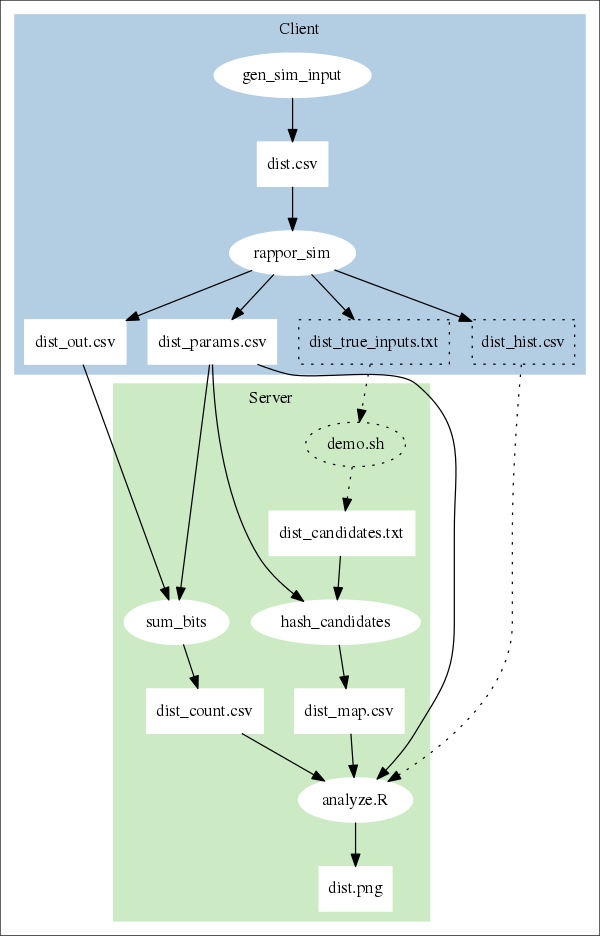
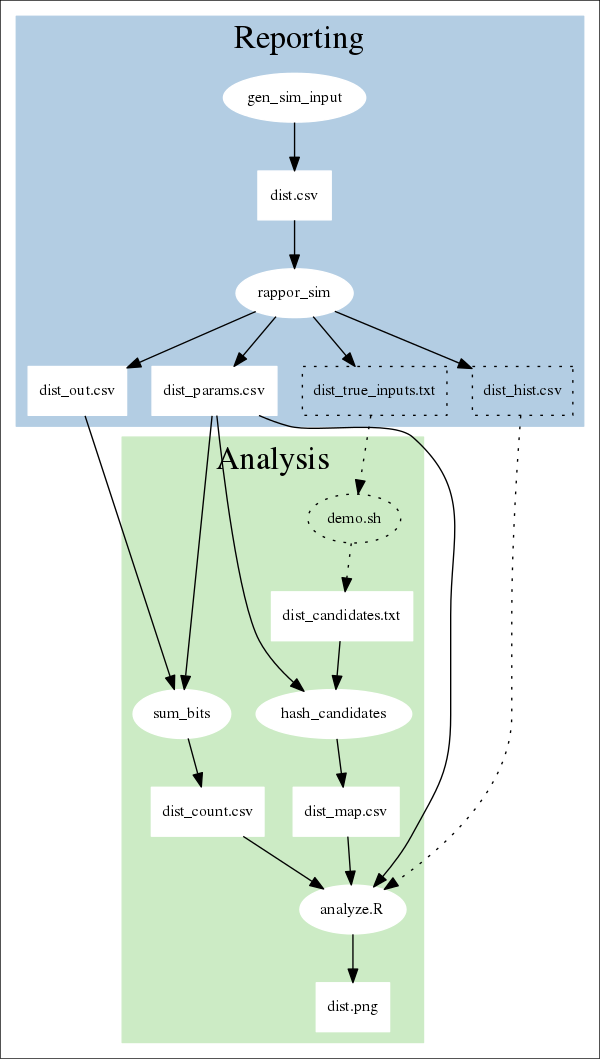
Latest

Changed region(s): [[0.0, 0.0, 1.0, 1.0], [0.75, 0.4647, 0.78, 0.7126]]

diff --git a/doc/data-flow.html b/doc/data-flow.html
@@ -30,10 +30,13 @@ describe the algorithm only informally.  For details, see the <a href="http://ar
 
 <p>It should look like <a href="http://google.github.io/rappor/examples/report.html">this</a>.</p>
 
-<p>This diagram shows what processes and files are involved in the demo.  Ovals
-represent processes; rectangles represent data.  The dotted lines denote
+<p>The following diagram shows what processes and files are involved in the demo.
+Ovals represent processes; rectangles represent data.  The dotted lines denote
 components that are involved in the simulation, but wouldn't be used in a
 "real" setting.</p>
+
+<p>In most configurations, the reports will be sent by many client machines, and a
+server does the analysis, i.e. the green parts of the diagram.</p>
 
 <p><img src="data-flow.png" alt="Diagram of RAPPOR Data Flow" /></p>
 
